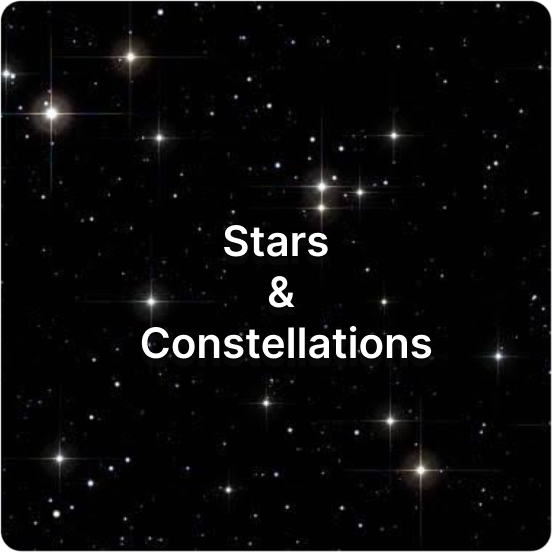
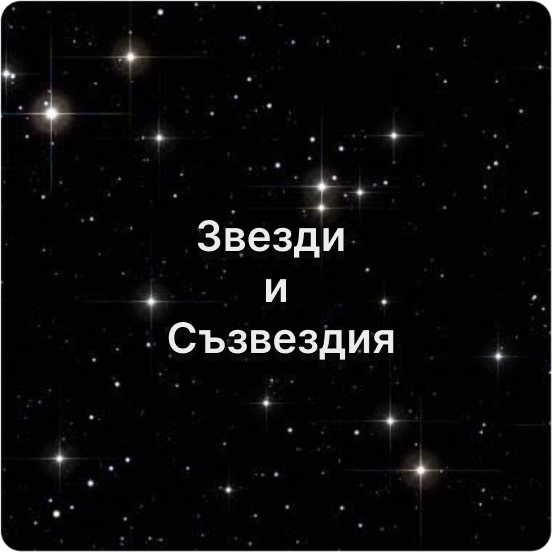
translated home page

Changed region(s): [[0.2464, 0.5851, 0.8007, 0.6467], [0.3388, 0.4004, 0.6467, 0.462], [0.462, 0.4928, 0.5543, 0.5543]]

diff --git a/index.html b/index.html
@@ -6,7 +6,7 @@
     <meta name="viewport" content="width=device-width, initial-scale=1.0">
     <title>Astrono</title>
     <link rel="stylesheet" href="./styles.css" />
-    <link rel="icon" type="image/png" href=""/>
+    <link rel="icon" type="image/png" href="" />
 </head>
 
 <body>
@@ -16,13 +16,13 @@
         </div>
         <ul class="nav-links">
             <div class="menu">
-                <li><a href="/events/index.html">Events</a></li>
+                <li><a href="/events/index.html">Събития</a></li>
                 <li class="starsAndConstellations">
-                    <a href="/starsAndConstellations/landingPage/index.html">Stars & Constellations</a>
+                    <a href="/starsAndConstellations/landingPage/index.html">Звезди и Съзвездия</a>
                     <ul class="dropdown">
-                        <li><a href="/starsAndConstellations/stars/StarBasics/index.html">Stars</a></li>
+                        <li><a href="/starsAndConstellations/stars/StarBasics/index.html">Звезди</a></li>
                         <li><a
-                                href="/starsAndConstellations/constellations/ConstellationHomePage/index.html">Constellations</a>
+                                href="/starsAndConstellations/constellations/ConstellationHomePage/index.html">Съзвездия</a>
                         </li>
                     </ul>
                 </li>
@@ -31,12 +31,12 @@
     </nav>
     <div class="introduction">
         <div class="text">
-            <h2>Are you interested in astronomy?</h2>
-            <h3>Do you want to learn new things <br> about celestial events or stars and <br> constelations?</h3>
+            <h2>Заинтересован ли си от астрономията?</h2>
+            <h3>Искаш ли да научиш нови неща за звездните събития или за звездите и съзвездията?</h3>
             <p>
-                Then Astrono is the perfect place for <br> you!
-                Just choose from the categories <br> below and
-                explore a whole new univerce <br> and learn new things.
+                Тогава Астроно е перфектното място за теб! Просто избери
+                от категориите отдолу и изследвай нови вселени
+                и учи нови неща.
             </p>
         </div>
         <div class="rightImage">
@@ -45,33 +45,31 @@
     </div>
     <div class="sectionBiggerScreen">
         <a href="/events/index.html">
-        <div class="card">
-            <img src="./images/events.png" />
-        </div>
-    </a>
+            <div class="card">
+                <img src="./images/events.png" />
+            </div>
+        </a>
         <p style="text-align:right;" class="pageExplanation">
-            If you want to learn more about <br> Celestial events like
-            full moons, <br> new moons, lunar eclipces, solar <br> eclipses or
-            meteor showers, and <br> see when they will happen, then <br> check this page.
+            Ако искаш да научиш повече за небесните събития като пълнолунието, новолунието, лунните затъмнения,
+            слънчевите затъмнения или метеорните дъждове и да разбереш кога ще се случат, тогава провери страницата.
         </p>
     </div>
     <div class="sectionPhone">
         <p class="pageExplanation">
-            If you want to learn more about <br> Celestial events like
-            full moons, <br> new moons, lunar eclipces, solar <br> eclipses or
-            meteor showers, and <br> see when they will happen, then <br> check this page.
+            Ако искаш да научиш повече за небесните събития като пълнолунието, новолунието, лунните затъмнения,
+            слънчевите затъмнения или метеорните дъждове и да разбереш кога ще се случат, тогава провери страницата.
         </p>
         <a href="/events/index.html">
-        <div class="card">
-            <img src="./images/events.png" />
-        </div>
-    </a>
+            <div class="card">
+                <img src="./images/events.png" />
+            </div>
+        </a>
     </div>
     <div class="section">
         <p class="pageExplanation">
-            If stars grab your attention and <br> you want
-            to learn about the stars <br> and the constellations
-            then this <br> page is for you.
+            Ако искаш да научиш повече за звездите, за техния живот за различните видове звезди и слъчеви системи или
+            пък искаш да видиш звездна карта на съзвездие и искаш да научиш повече за съзвездията, то тази страница е за
+            теб.
         </p>
         <a href="/starsAndConstellations/landingPage/index.html">
             <div class="cardRight">

diff --git a/styles.css b/styles.css
@@ -17,8 +17,7 @@ body {
     justify-content: space-between;
     padding: 20px;
     color: #E6CEFF;
-    height: 60px;
-    width: 98.9vw;
+    height: 7vh;
     background: rgba(11, 1, 15, 0.52);
 }
 
@@ -32,15 +31,15 @@ body {
 }
 
 .logo img {
-    height: 50px;
-    width: 200px;
+    height: 7vh;
+    width: auto;
 }
 
 .menu {
     display: flex;
     align-items: center;
     gap: 1em;
-    font-size: 18px;
+    font-size: 1.4vw;
 }
 
 .menu li {
@@ -63,7 +62,7 @@ body {
     position: absolute;
     display: none;
     border-radius: 10px;
-    top: 35px;
+    top: 100%;
     text-align: center;
     list-style-position: inside;
 }
@@ -98,7 +97,7 @@ img {
     justify-content: center;
     gap: 150px;
     font-weight: 400;
-    margin: 25px;
+    margin: 15px;
 }
 
 .introduction .rightImage {
@@ -151,7 +150,7 @@ img {
         font-size: 12px;
     }
 
-    .dropdown li{
+    .dropdown li {
         font-size: 11px;
     }
 
@@ -183,79 +182,126 @@ img {
         font-weight: 500;
     }
 
-    img{
+    img {
         width: 70vw;
         height: 50%;
     }
 
-        .starsAndConstellations {
-            margin-left: -12px;
-        }
-
-        .introduction {
-            display: block;
-        }
-
-        .introduction .rightImage {
-            text-align: center;
-            margin-top: 30px;
-            margin-right: 0;
-        }
-
-        .section,
-        .sectionPhone {
-            display: block;
-            text-align: center;
-            margin-bottom: -50px;
-        }
-
-        .pageExplanation {
-            text-align: center;
-        }
-
-        .sectionPhone {
-            margin-top: 40px;
-        }
-
-        .sectionPhone p,
-        .section p {
-            margin-bottom: 50px;
-        }
-
-        .sectionBiggerScreen {
-            display: none;
-        }
+    .starsAndConstellations {
+        margin-left: -12px;
     }
 
-    @media (min-width: 2200px) {
-        img {
-            width: 700px;
-            height: 650px;
-        }
-
-        h2 {
-            font-size: 73px;
-            margin-bottom: 25px;
-        }
-
-        h3 {
-            font-size: 63px;
-            margin-bottom: 25px;
-        }
-
-        p,
-        .section p,
-        .sectionBiggerScreen p,
-        .sectionPhone p {
-            font-size: 50px;
-        }
-
-        .introduction {
-            gap: 300px;
-        }
-
-        .sectionBiggerScreen,
-        .section {
-            gap: 560px
-        }
+    .introduction {
+        display: block;
     }
+
+    .introduction .rightImage {
+        text-align: center;
+        margin-top: 30px;
+        margin-right: 0;
+    }
+
+    .section,
+    .sectionPhone {
+        display: block;
+        text-align: center;
+        margin-bottom: -50px;
+    }
+
+    .pageExplanation {
+        text-align: center;
+    }
+
+    .sectionPhone {
+        margin-top: 40px;
+    }
+
+    .sectionPhone p,
+    .section p {
+        margin: 25px;
+    }
+
+    .sectionBiggerScreen {
+        display: none;
+    }
+}
+
+@media (min-width: 1009px) and (max-width:2200px) {
+    .text {
+        font-size: 1.8vw;
+        width: 50vw;
+    }
+}
+
+@media (min-width:1009px) and (max-width:1400px) {
+
+    .section p,
+    .sectionBiggerScreen p,
+    .sectionPhone p {
+        width: 40vw;
+        font-size: 1.8vw;
+    }
+
+    .introduction .rightImage {
+        margin-top: 0;
+    }
+}
+
+@media (min-width:1400px) and (max-width:2200px) {
+
+    .section p,
+    .sectionBiggerScreen p,
+    .sectionPhone p {
+        width: 35vw;
+        font-size: 1.8vw;
+    }
+
+    .introduction .rightImage {
+        margin-top: 0;
+    }
+
+    .section, .sectionBiggerScreen {
+        gap: 20%;
+    }
+}
+
+@media (min-width: 2200px) {
+    img {
+        width: 700px;
+        height: 650px;
+    }
+
+    h2 {
+        font-size: 73px;
+        margin-bottom: 25px;
+    }
+
+    h3 {
+        font-size: 63px;
+        margin-bottom: 25px;
+    }
+
+    p,
+    .section p,
+    .sectionBiggerScreen p,
+    .sectionPhone p {
+        font-size: 50px;
+        width: 40vw;
+    }
+
+    .introduction {
+        gap: 300px;
+    }
+
+    .sectionBiggerScreen,
+    .section {
+        gap: 15%;
+    }
+
+    .text {
+        font-size: 1vw;
+        text-align: center;
+        line-height: 2.5em;
+        width: 40vw;
+    }
+}
